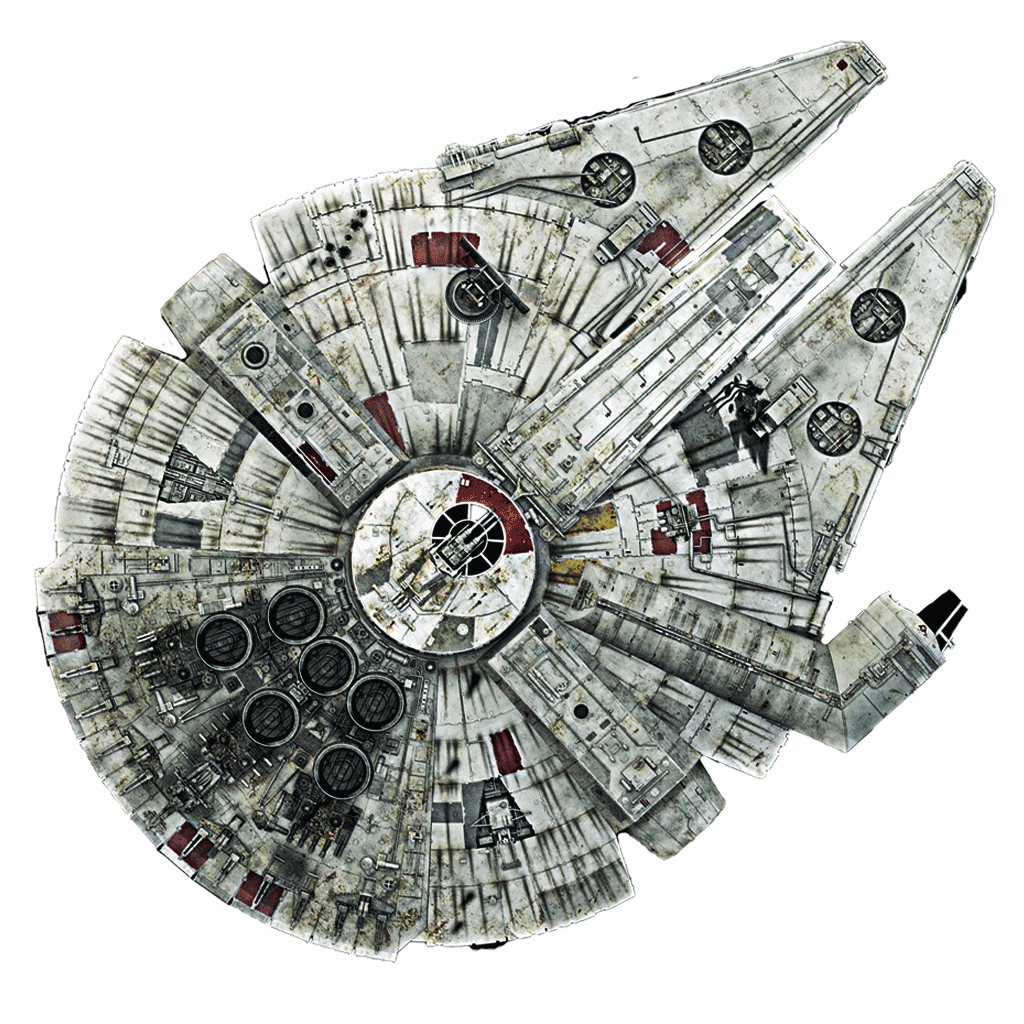
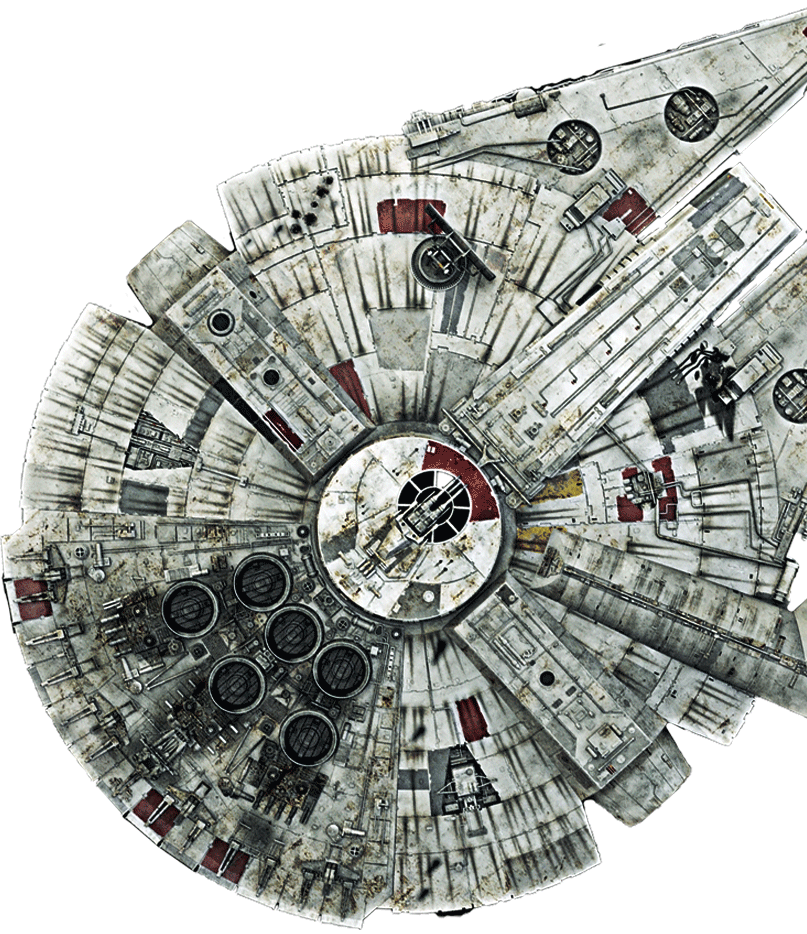
Fixed horizontal scrolling issue in Chrome
Cropped image and tweaked positioning logic

diff --git a/styles/home.css b/styles/home.css
@@ -5,9 +5,9 @@ body {
 
 #spaceship-img {
     position: absolute;
-    height: 53vh;
-    bottom: 3vh;
-    right: -5vw;
+    width: 25vw;
+    bottom: -8vh;
+    right: 0;
 }
 
 .register-btn {
@@ -72,11 +72,12 @@ body {
     background-image: url("../images/hackathon-header.png");
     background-position: center;
     justify-content: center;
+    position: relative;
 }
 
 .grid-item1 button {
     display: block;
-    margin: 73vh auto;
+    margin: 73vh auto 0;
 }
 
 .grid-item2 {
